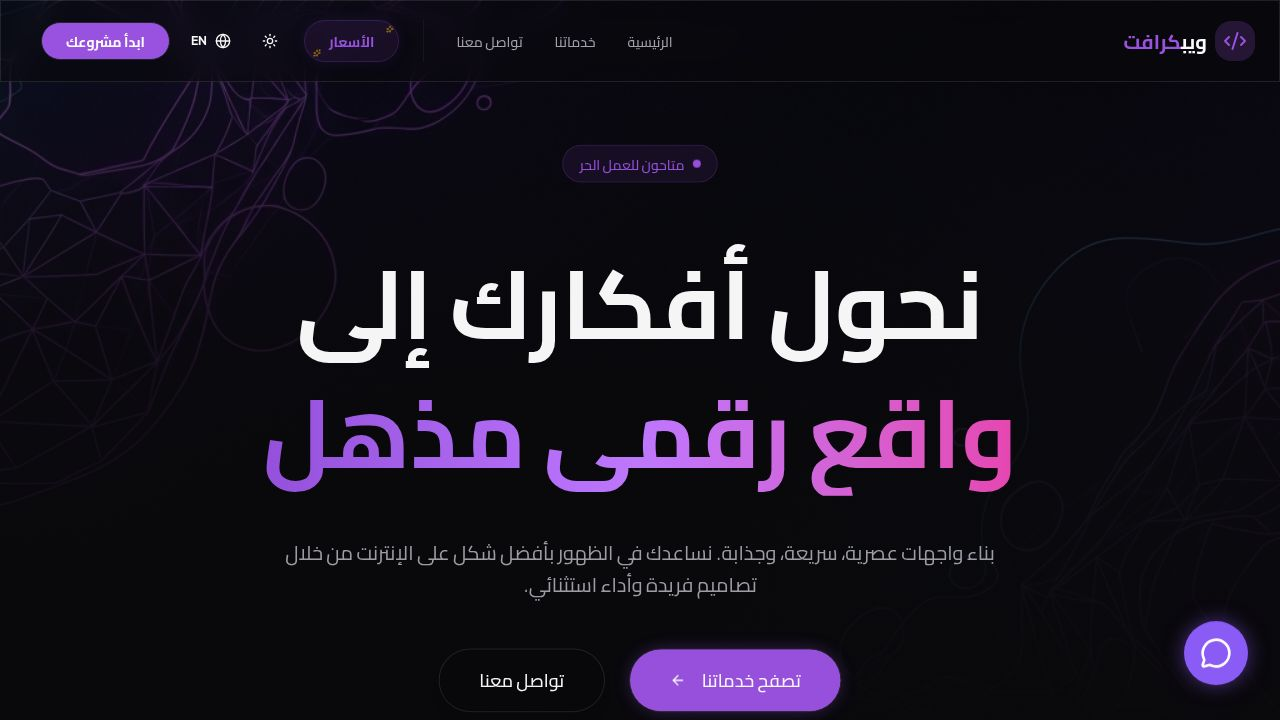
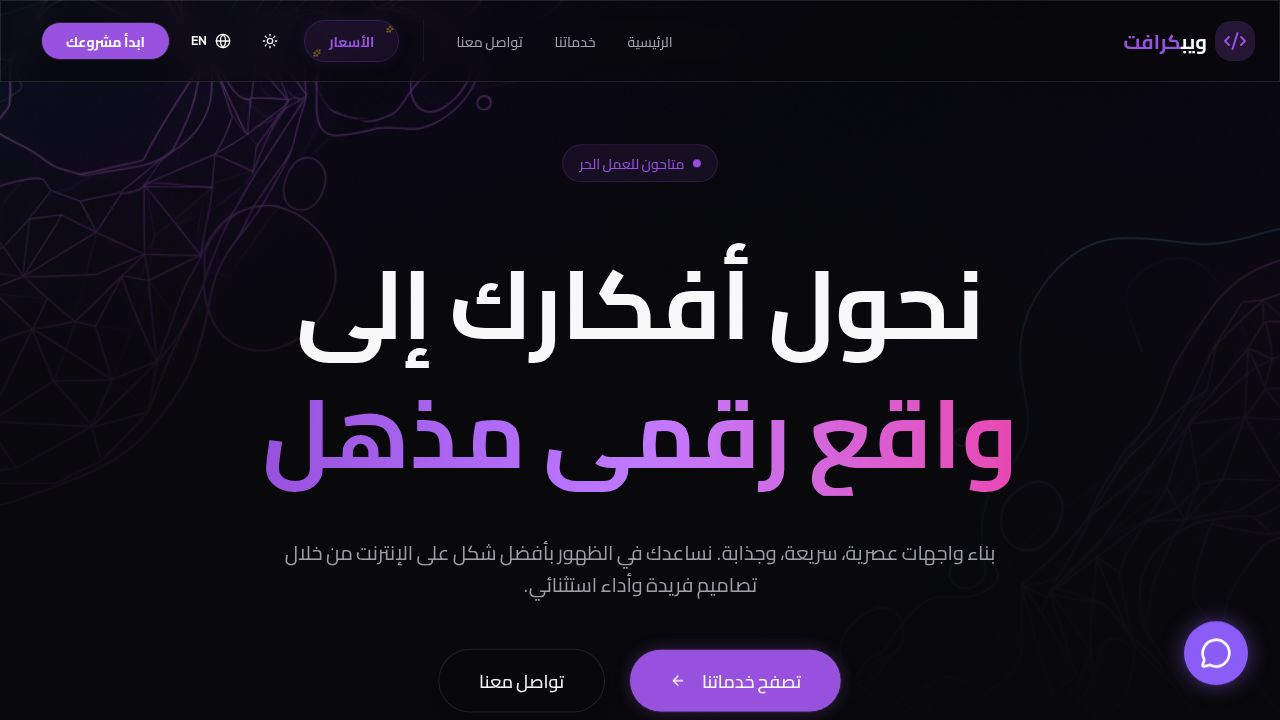
Improve website navigation and mobile menu functionality
Update navbar component to handle routing and scrolling more robustly, specifically for the pricing page and mobile navigation links. Add useEffect in pricing.tsx to ensure scroll to top on page load.

Replit-Commit-Author: Agent
Replit-Commit-Session-Id: f7bae07b-cb4b-48b5-af1f-15cb2f69826c
Replit-Commit-Checkpoint-Type: full_checkpoint
Replit-Commit-Event-Id: f0042fe3-9480-4138-992e-8b2132815326
Replit-Commit-Screenshot-Url: https://storage.googleapis.com/screenshot-production-us-central1/d2e6b768-799e-4e33-9bec-5d505b11154b/f7bae07b-cb4b-48b5-af1f-15cb2f69826c/LHsZOki
Replit-Helium-Checkpoint-Created: true

diff --git a/client/src/components/ui/navbar.tsx b/client/src/components/ui/navbar.tsx
@@ -25,11 +25,13 @@ export function Navbar() {
     if (href.startsWith("#")) {
       const id = href.replace("#", "");
       
+      // If we're not on the home page, redirect to home page with hash
       if (window.location.pathname !== "/") {
         window.location.assign("/#" + id);
         return;
       }
       
+      // If we're on the home page, handle smooth scroll
       if (e && e.preventDefault) e.preventDefault();
       
       const element = document.getElementById(id);
@@ -43,7 +45,10 @@ export function Navbar() {
         });
       }
     } else {
-      window.location.href = href;
+      // For non-hash links (like /pricing), scroll to top
+      if (e && e.preventDefault) e.preventDefault();
+      window.location.assign(href);
+      window.scrollTo(0, 0);
     }
   };
 
@@ -98,6 +103,7 @@ export function Navbar() {
               <motion.button
                 whileHover={{ scale: 1.05 }}
                 whileTap={{ scale: 0.95 }}
+                onClick={(e) => handleNavClick(e, "/pricing")}
                 className="relative px-4 lg:px-6 py-2.5 rounded-full bg-primary/10 border border-primary/20 text-primary text-sm font-bold flex-shrink-0 flex items-center gap-2 overflow-hidden group mx-2 shadow-[0_0_15px_rgba(139,92,246,0.1)]"
               >
                 <motion.div
@@ -133,6 +139,7 @@ export function Navbar() {
             <motion.button
               whileHover={{ scale: 1.05 }}
               whileTap={{ scale: 0.95 }}
+              onClick={(e) => handleNavClick(e, "/pricing")}
               className="relative px-3 py-1.5 rounded-full bg-primary/10 border border-primary/20 text-primary text-xs font-bold flex items-center gap-1 overflow-hidden group"
             >
               <Sparkles className="w-3 h-3 text-yellow-400 animate-pulse" />

diff --git a/client/src/pages/pricing.tsx b/client/src/pages/pricing.tsx
@@ -83,6 +83,10 @@ export default function Pricing() {
     ]
   };
 
+  useEffect(() => {
+    window.scrollTo(0, 0);
+  }, []);
+
   return (
     <div className="min-h-screen bg-background text-foreground font-sans selection:bg-primary/30">
       <Navbar />
